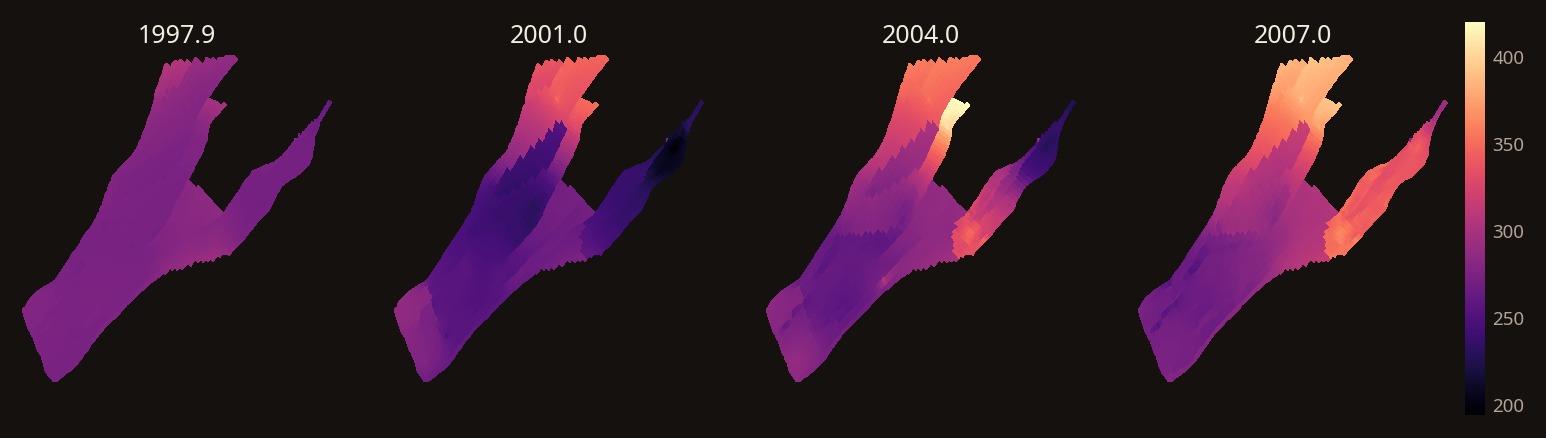
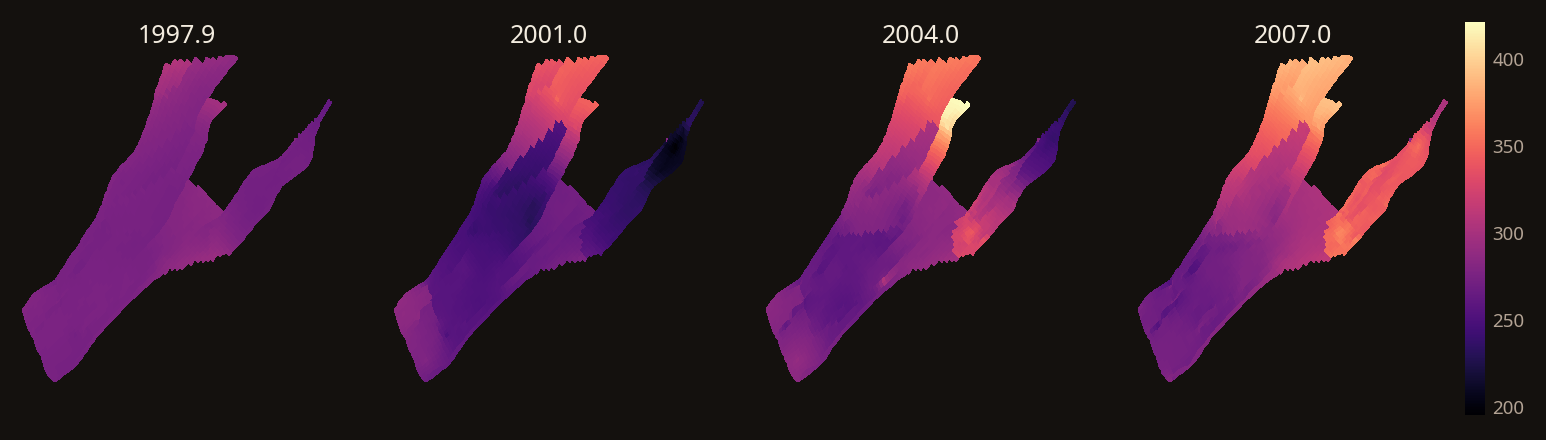
Norne: 20 мин на активных ячейках, обновлены цифры, графики и сайт

diff --git a/web/norne.html b/web/norne.html
@@ -38,10 +38,10 @@
           <h1>Norne целиком.<br><em>Девять лет истории.</em></h1>
           <p class="lede">Открытая модель Equinor из Норвежского моря: 44&nbsp;431 активная ячейка, 61 разлом, жирный газ, 36 скважин по реальному расписанию. Тот же DATA-файл, что считал Eclipse&nbsp;2014.2, без правок.</p>
           <div class="metrics">
-            <div><b>35 мин</b><span>3312 суток на RTX 3090 Ti</span></div>
-            <div><b>−0,16%</b><span>накопленная нефть к концу</span></div>
-            <div><b>+0,9%</b><span>накопленная вода</span></div>
-            <div><b>−0,07%</b><span>накопленный газ</span></div>
+            <div><b>20 мин</b><span>3312 суток на RTX 3090 Ti</span></div>
+            <div><b>0,00%</b><span>накопленная нефть к концу</span></div>
+            <div><b>+0,5%</b><span>накопленная вода</span></div>
+            <div><b>−0,05%</b><span>накопленный газ</span></div>
           </div>
           <figure class="spark">
             <img src="assets/hero_fopt.svg" alt="Накопленная нефть: наш солвер и Eclipse совпадают все девять лет">
@@ -66,7 +66,7 @@
         <div class="prose">
           <p>Norne — открытая модель Equinor, Северное море. Сетка 46×112×22, история с ноября 1997 по декабрь 2006, 3312 суток. Добыча нефти, воды и газа, закачка воды и газа, 36 скважин, реальное расписание, включая остановки и смену режима.</p>
           <p>Считали тот же deck, что Eclipse 2014.2. Сравнивали векторы SUMMARY в наши отчётные даты. Серые точки на графиках — исторические замеры из модели: это то, за чем следует управление скважин, а не второй симулятор. Совпадать мы должны с голубой линией.</p>
-          <p>Накопленная нефть лежит на Eclipse все девять лет: по годам расхождение от −0,17% до +0,46%. К концу нефти меньше на 0,16%, воды больше на 0,9%, газа меньше на 0,07%. Закачка газа совпала полностью, закачка воды — до 0,15%. OPM Flow на этом же deck даёт −0,21%, +1,4% и −0,44%.</p>
+          <p>Накопленная нефть лежит на Eclipse все девять лет: по годам расхождение от −0,01% до +0,50%. К концу нефть совпала до сотых долей процента, воды больше на 0,5%, газа меньше на 0,05%. Закачка газа совпала полностью, закачка воды — до 0,14%. OPM Flow на этом же deck даёт −0,21%, +1,4% и −0,44%.</p>
         </div>
 
         <div class="slip" role="table" aria-label="Накопленные объёмы к декабрю 2006">
@@ -74,16 +74,16 @@
             <span>вектор</span><span>что это</span><span>наш · Eclipse</span><span></span><span>разница</span>
           </div>
           <div class="slip-row" role="row">
-            <span class="slip-k">FOPT</span><span>нефть</span><span class="nums"><b>67,21</b> · <i>67,32</i></span><span class="unit">млн м³</span><span class="delta">−0,16%</span>
+            <span class="slip-k">FOPT</span><span>нефть</span><span class="nums"><b>67,32</b> · <i>67,32</i></span><span class="unit">млн м³</span><span class="delta">0,00%</span>
           </div>
           <div class="slip-row" role="row">
-            <span class="slip-k">FWPT</span><span>вода</span><span class="nums"><b>23,41</b> · <i>23,20</i></span><span class="unit">млн м³</span><span class="delta">+0,9%</span>
+            <span class="slip-k">FWPT</span><span>вода</span><span class="nums"><b>23,32</b> · <i>23,20</i></span><span class="unit">млн м³</span><span class="delta">+0,5%</span>
           </div>
           <div class="slip-row" role="row">
-            <span class="slip-k">FGPT</span><span>газ</span><span class="nums"><b>14,63</b> · <i>14,64</i></span><span class="unit">млрд м³</span><span class="delta">−0,07%</span>
+            <span class="slip-k">FGPT</span><span>газ</span><span class="nums"><b>14,63</b> · <i>14,64</i></span><span class="unit">млрд м³</span><span class="delta">−0,05%</span>
           </div>
           <div class="slip-row" role="row">
-            <span class="slip-k">FWIT</span><span>закачка воды</span><span class="nums"><b>101,95</b> · <i>102,1</i></span><span class="unit">млн м³</span><span class="delta">−0,15%</span>
+            <span class="slip-k">FWIT</span><span>закачка воды</span><span class="nums"><b>101,95</b> · <i>102,1</i></span><span class="unit">млн м³</span><span class="delta">−0,14%</span>
           </div>
           <div class="slip-row" role="row">
             <span class="slip-k">FGIT</span><span>закачка газа</span><span class="nums"><b>8,685</b> · <i>8,685</i></span><span class="unit">млрд м³</span><span class="delta">0,00%</span>
@@ -185,10 +185,10 @@
     <section id="solver">
       <div class="wrap">
         <p class="index">04 — решатель</p>
-        <h2>Полчаса на девять лет</h2>
+        <h2>Двадцать минут на девять лет</h2>
         <div class="prose">
-          <p>683 шага по времени, 3259 итераций Ньютона, в среднем 4,8 на шаг. Три шага не сошлись и были разрезаны — ни один не дошёл до минимального. Иерархия AMG строится и дальше только обновляется. Допуск линейного решателя — неточный Ньютон: пока невязка большая, систему не вылизывают до машинного нуля.</p>
-          <p>На миллионе ячеек двухфазный стресс-тест проходит на одной 24 ГБ карте. Norne меньше, но жёстче: жирный газ, разломы, история, скважины, которые открываются и закрываются. Узкое место сейчас не AMG, а то, что в матрице сидят и неактивные ячейки — 113 тысяч вместо 44.</p>
+          <p>709 шагов по времени, 3309 итераций Ньютона, в среднем 4,7 на шаг. Восемь шагов не сошлись и были разрезаны — ни один не дошёл до минимального. Иерархия AMG строится и дальше только обновляется. Допуск линейного решателя — неточный Ньютон: пока невязка большая, систему не вылизывают до машинного нуля.</p>
+          <p>На миллионе ячеек двухфазный стресс-тест проходит на одной 24 ГБ карте. Norne меньше, но жёстче: жирный газ, разломы, история, скважины, которые открываются и закрываются. В матрице только активные ячейки — 44 тысячи из 113 тысяч ячеек сетки.</p>
         </div>
         <figure>
           <img class="chart" src="assets/solver.png" alt="Шаг по времени, гистограмма итераций Ньютона и накопленное время счёта">
@@ -202,9 +202,8 @@
         <p class="index">05 — чего в этом счёте нет</p>
         <h2>Границы, как они есть</h2>
         <ul class="limits">
-          <li><strong>Отдельные скважины</strong>Месторождение целиком сходится с Eclipse до долей процента, но по скважинам остаются выбросы: вода на E-4AH больше на 58%, на B-1H меньше на 15%, нефть на D-4AH и E-4AH меньше на 4%.</li>
+          <li><strong>Отдельные скважины</strong>Месторождение целиком сходится с Eclipse до долей процента, но по скважинам остаются выбросы: вода на E-4AH больше на 17%, на B-1H меньше на 15%, на D-4AH меньше на 11%. В объёмах это немного: от тысячи до 70 тысяч м³ при 23 млн м³ воды по месторождению.</li>
           <li><strong>Устье и VFP</strong>Нет таблиц VFP и ограничения по устьевому давлению. Для сверки с историей Norne они не нужны: там VFP не задана и забой ограничен 1 атм, но для прогнозов они понадобятся.</li>
-          <li><strong>Неактивные ячейки</strong>Решатель несёт все 113&nbsp;344 ячейки сетки. Активных 44&nbsp;431. Лишняя работа примерно в два с половиной раза.</li>
           <li><strong>Трассеры, WECON, сети</strong>TRACER, экономические ограничения скважин и поверхностная сеть не считаются. Гистерезис ОФП — только модель Карлсона. VAPPARS с VAP2 ≠ 0 не поддерживается.</li>
         </ul>
       </div>

diff --git a/web/index.html b/web/index.html
@@ -40,8 +40,8 @@
           <h1>Симулятор пласта<br><em>на одной видеокарте.</em></h1>
           <p class="lede">Открытый гидродинамический симулятор: берёт DATA-файл Eclipse и считает трёхфазный пласт целиком — сетку с разломами, жирный газ, скважины по расписанию. Python и PyTorch, без лицензий.</p>
           <div class="metrics">
-            <div><b>35 мин</b><span>вся история Norne, 3312 суток</span></div>
-            <div><b>−0,16%</b><span>нефть Norne против Eclipse</span></div>
+            <div><b>20 мин</b><span>вся история Norne, 3312 суток</span></div>
+            <div><b>0,00%</b><span>нефть Norne против Eclipse</span></div>
             <div><b>0,01%</b><span>дебит нефти SPE9 против Eclipse</span></div>
             <div><b>1 млн</b><span>ячеек на 24 ГБ GPU</span></div>
           </div>
@@ -121,8 +121,8 @@
               <tr><td>SPE1, 10×10×3, 10 лет</td><td>дебит нефти / газовый фактор / забои</td><td class="num">0,01% / 0,03% / 0,02%</td></tr>
               <tr><td>SPE9, 24×25×15, 26 скважин</td><td>нефть / газ / вода</td><td class="num">0,01% / 0,11% / 0,23%</td></tr>
               <tr><td>SPE9</td><td>забой, худшая скважина</td><td class="num">0,08%</td></tr>
-              <tr><td>Norne, 44 тыс. ячеек, 36 скважин, 9 лет</td><td>накопленные нефть / вода / газ</td><td class="num">−0,16% / +0,9% / −0,07%</td></tr>
-              <tr><td>Norne</td><td>закачка воды / газа</td><td class="num">−0,15% / 0,00%</td></tr>
+              <tr><td>Norne, 44 тыс. ячеек, 36 скважин, 9 лет</td><td>накопленные нефть / вода / газ</td><td class="num">0,00% / +0,5% / −0,05%</td></tr>
+              <tr><td>Norne</td><td>закачка воды / газа</td><td class="num">−0,14% / 0,00%</td></tr>
             </tbody>
           </table>
         </div>
@@ -174,7 +174,6 @@ NORNE_DIR=opm-tests/norne python scripts/run_norne.py</pre>
           <li><strong>Устье и VFP</strong>Нет таблиц VFP и ограничений по устьевому давлению — для прогнозов после истории они понадобятся.</li>
           <li><strong>Сложные скважины и сети</strong>Нет многосегментных скважин, поверхностной сети, WECON.</li>
           <li><strong>Физика</strong>Black-oil: без композиционной и термической моделей, трассеров, полимера. Гистерезис ОФП — модель Карлсона.</li>
-          <li><strong>Неактивные ячейки</strong>Решатель пока несёт всю сетку: на Norne 113 тысяч ячеек вместо 44 тысяч активных.</li>
         </ul>
       </div>
     </section>

diff --git a/docs/NORNE.md b/docs/NORNE.md
@@ -23,13 +23,13 @@ deck `norne/NORNE_ATW2013.DATA`). Это стандартный тест для 
 
 | вектор | Eclipse 2014.2 | наш | разница | OPM Flow |
 |---|---|---|---|---|
-| FOPT, млн м³ | 67.32 | 67.21 | −0.16% | −0.21% |
-| FWPT, млн м³ | 23.20 | 23.41 | +0.90% | +1.40% |
-| FGPT, млрд м³ | 14.64 | 14.63 | −0.07% | −0.44% |
-| FWIT, млн м³ | 102.1 | 101.95 | −0.15% | +0.39% |
+| FOPT, млн м³ | 67.32 | 67.32 | 0.00% | −0.21% |
+| FWPT, млн м³ | 23.20 | 23.32 | +0.50% | +1.40% |
+| FGPT, млрд м³ | 14.64 | 14.63 | −0.05% | −0.44% |
+| FWIT, млн м³ | 102.1 | 101.95 | −0.14% | +0.39% |
 | FGIT, млрд м³ | 8.685 | 8.685 | 0.00% | — |
 
-Накопленная нефть по годам: +0.06%, +0.06%, +0.46%, +0.12%, +0.21%, +0.08%, −0.11%, −0.17%, −0.16%.
+Накопленная нефть по годам: +0.04%, +0.07%, +0.50%, +0.18%, +0.18%, +0.14%, +0.02%, −0.01%, 0.00%.
 Среднее по времени расхождение дебитов: нефть 0.65%, вода 1.08%, газ 0.70%, закачка воды 0.06%.
 Среднее давление по объёму углеводородов к концу — 270.8 бар против FPR Eclipse 271.6 бар. Свободный газ в пласте
 совпадает с балансом FREE GAS в PRT Eclipse до 0.01–0.08 млрд м³.
@@ -57,7 +57,7 @@ deck `norne/NORNE_ATW2013.DATA`). Это стандартный тест для 
 | B-1BH | 1.42 | 1.42 | −0.4% |
 | D-1CH | 1.29 | 1.32 | −1.9% |
 
-Наибольшие расхождения по скважинам: накопленная вода E-4AH +58% и B-1H −15%, нефть D-4AH −3.5% и E-4AH −4.4%.
+Наибольшие расхождения по скважинам: накопленная вода E-4AH +17% (+30 тыс. м³), B-1H −15% (−71 тыс. м³), D-4AH −11% (−1 тыс. м³); нефть по этим скважинам в пределах 2%.
 Участки забоя на 1 атм — нижний предел из deck; Eclipse садится на него в те же периоды (D-1H — 117 суток у обоих).
 
 ![Дебит нефти по скважинам](images/norne/wells_oil.png)
@@ -86,8 +86,8 @@ corner-point из EGRID, вертикаль растянута в 5 раз.
 
 ## Решатель
 
-2106 с на всю историю: 683 шага по времени, 3259 итераций Ньютона (4.8 на шаг), 3 шага разрезаны, минимального
-шага нет. Линейная система — FGMRES с CPR (AMG по давлению, блочный Якоби), всё на GPU; изолированные ячейки
+1210 с на всю историю: 709 шагов по времени, 3309 итераций Ньютона (4.7 на шаг), 8 шагов разрезаны, минимального
+шага нет. В системе только 44 431 активная ячейка. Линейная система — FGMRES с CPR (AMG по давлению, блочный Якоби), всё на GPU; изолированные ячейки
 решаются отдельно, иерархия AMG строится один раз и затем только обновляется.
 
 ![Шаг по времени и итерации Ньютона](images/norne/solver.png)
@@ -123,4 +123,4 @@ NORNE_DIR=opm-tests/norne NORNE_OUT=results/norne python scripts/norne_figures.p
 ## Чего в расчёте нет
 
 VFP-таблицы и ограничения по устьевому давлению (в WCONHIST Norne VFP не задана), трассеры, WECON,
-поверхностная сеть. Решатель ведёт все 113 344 ячейки сетки, хотя активных 44 431.
+поверхностная сеть.

diff --git a/docs/ROADMAP.md b/docs/ROADMAP.md
@@ -4,20 +4,18 @@
 
 - Полностью неявный black-oil на GPU читает deck Eclipse: corner-point сетка с разломами и NNC, жирный газ,
   регионы, EQUIL, ENDSCALE, гистерезис Карлсона, скважины по расписанию, история, группы, WTEST.
-- SPE1 и SPE9 — сотые и десятые доли процента от Eclipse; Norne, вся история 3312 суток — 35 минут на RTX 3090 Ti,
-  накопленная нефть −0.16%, вода +0.9%, газ −0.07% (ближе к Eclipse, чем OPM Flow на этом deck).
+- SPE1 и SPE9 — сотые и десятые доли процента от Eclipse; Norne, вся история 3312 суток — 20 минут на RTX 3090 Ti,
+  накопленная нефть 0.00%, вода +0.5%, газ −0.05% (ближе к Eclipse, чем OPM Flow на этом deck).
 - Пошаговый прогон (`iter_deck`), чекпоинты и среда gymnasium `DeckEnv` для агентов.
 
 ## 1. Скорость и масштаб (ближайшее)
 
-1. **Только активные ячейки.** Сжать систему до активных ячеек (Norne: 44 тыс. вместо 113 тыс.) — ожидаемо
-   в 2–2.5 раза быстрее сборки и линейного решателя.
-2. **Профилирование шага Ньютона** на Norne: доля сборки, свойств, CPR, переключений; убрать синхронизации CPU–GPU
+1. **Профилирование шага Ньютона** на Norne: доля сборки, свойств, CPR, переключений; убрать синхронизации CPU–GPU
    и Python-циклы в скважинах.
-3. **float32 в предобуславливателе** при float64 в невязке и Ньютоне.
-4. **Пакетный прогон**: несколько реализаций одной модели на одной GPU (батч по сценариям) — основа для
+2. **float32 в предобуславливателе** при float64 в невязке и Ньютоне.
+3. **Пакетный прогон**: несколько реализаций одной модели на одной GPU (батч по сценариям) — основа для
    оптимизации и RL.
-5. **Модели крупнее Norne**: открытые deck на 1–5 млн ячеек, несколько GPU.
+4. **Модели крупнее Norne**: открытые deck на 1–5 млн ячеек, несколько GPU.
 
 ## 2. Скважины и прогнозные расчёты
 

diff --git a/README.md b/README.md
@@ -6,8 +6,8 @@
 читает DATA-файл Eclipse и считает модель целиком: corner-point сетку с разломами, жирный газ, регионы, скважины
 по историческому расписанию.
 
-Месторождение **Norne** (44 431 активная ячейка, 36 скважин, 3312 суток) считается целиком за **35 минут** на одной
-RTX 3090 Ti. Накопленная нефть отличается от Eclipse 2014.2 на −0.16%, вода на +0.9%, газ на −0.07%.
+Месторождение **Norne** (44 431 активная ячейка, 36 скважин, 3312 суток) считается целиком за **20 минут** на одной
+RTX 3090 Ti. Накопленная нефть отличается от Eclipse 2014.2 на −0.00%, вода на +0.5%, газ на −0.05%.
 
 - Сайт: [`web/`](web/index.html) — описание симулятора и [результаты Norne](web/norne.html)
 - Документация: [`docs/`](docs/index.md), HTML и PDF собираются MkDocs (см. ниже)
@@ -87,5 +87,5 @@ python scripts/export_pdf.py  # PDF в site/pdf/OilSimulatorDocs.pdf
 
 ## План
 
-[`docs/ROADMAP.md`](docs/ROADMAP.md): только активные ячейки и ускорение, VFP и устьевые ограничения, WECON,
+[`docs/ROADMAP.md`](docs/ROADMAP.md): ускорение (float32, пакетный прогон), VFP и устьевые ограничения, WECON,
 многосегментные скважины, вывод в форматах Eclipse, градиенты для оптимизации.

diff --git a/docs/index.md b/docs/index.md
@@ -29,9 +29,9 @@
 |---|---|---|
 | SPE1, 10×10×3, 10 лет | дебит нефти / газовый фактор | 0.01% / 0.03% |
 | SPE9, 24×25×15, 26 скважин | нефть / газ / вода | 0.01% / 0.11% / 0.23% |
-| Norne, 44 тыс. активных ячеек, 36 скважин, 3312 сут | накопленные нефть / вода / газ | −0.16% / +0.9% / −0.07% |
+| Norne, 44 тыс. активных ячеек, 36 скважин, 3312 сут | накопленные нефть / вода / газ | 0.00% / +0.5% / −0.05% |
 
-Norne целиком считается за 35 минут на одной RTX 3090 Ti — подробно на странице [Norne](NORNE.md).
+Norne целиком считается за 20 минут на одной RTX 3090 Ti — подробно на странице [Norne](NORNE.md).
 
 ## Как пользоваться документацией
 

diff --git a/docs/fim_technical_details.md b/docs/fim_technical_details.md
@@ -95,8 +95,6 @@ $$
 
 * Гистерезис ОФП — только Карлсон (EHYSTR модель 0, KR); гистерезис Pc и ENDSCALE DIRECT не поддерживаются.
 * Жирный газ без VAPPARS VAP2, DRVDT.
-* Решатель ведёт все ячейки сетки, включая неактивные (нулевые поровый объём и проводимости): в Norne
-  113 тыс. ячеек вместо ~44 тыс. активных.
 * VFPPROD/VFPINJ, THP-ограничения, трассеры (TRACER, WTRACER), WECON, поверхностная сеть, многосегментные
   скважины — не поддерживаются.
 * В простом JSON-режиме FIM дебиты только поверхностные (`rate_type: "reservoir"` не поддерживается); в deck

diff --git a/docs/CHANGELOG.md b/docs/CHANGELOG.md
@@ -2,7 +2,7 @@
 
 ## 2026-10-26
 
-- Расчёт только по активным ячейкам (сжатая сетка, `cell_map`): Norne — 44 431 ячейка, 20 мин вместо 31.5.
+- Расчёт только по активным ячейкам (сжатая сетка, `cell_map`): Norne — 44 431 ячейка, 20 мин вместо 35; FOPT 0.00%, FWPT +0.50%, FGPT −0.05% от Eclipse. Сайт, графики и документация обновлены.
 - MINPV по умолчанию 1e-6 м³ (как OPM): выклиненные ячейки с почти нулевым поровым объёмом отсекаются.
 - RVVD (Rv по глубине при EQUIL item 8 > 0).
 - Бенчмарк VAPPARS-01 из opm-tests (VAPOIL + VAPPARS без DRSDT, нагнетание газа): GOR, BHP и добыча газа

diff --git a/docs/PERFORMANCE.md b/docs/PERFORMANCE.md
@@ -17,7 +17,7 @@ Black-oil FIM (CPR-AMG, float64):
 |----------|-------|------------|-------|
 | SPE1 | 10 × 10 × 3, 10 лет | CPU | 17–30 с |
 | SPE9 | 24 × 25 × 15, 900 сут | CPU | ~77 с |
-| Norne, вся история | 46 × 112 × 22 (113 344 ячейки, 44 431 активная), 3312 сут | RTX 3090 Ti | 35 мин, 683 подшага, 3259 итераций Ньютона |
+| Norne, вся история | 46 × 112 × 22 (113 344 ячейки, 44 431 активная), 3312 сут | RTX 3090 Ti | 20 мин, 709 подшагов, 3309 итераций Ньютона (только активные ячейки) |
 
 На Norne решатель ведёт все ячейки сетки, включая неактивные, — около 2.5× лишней работы.
 
